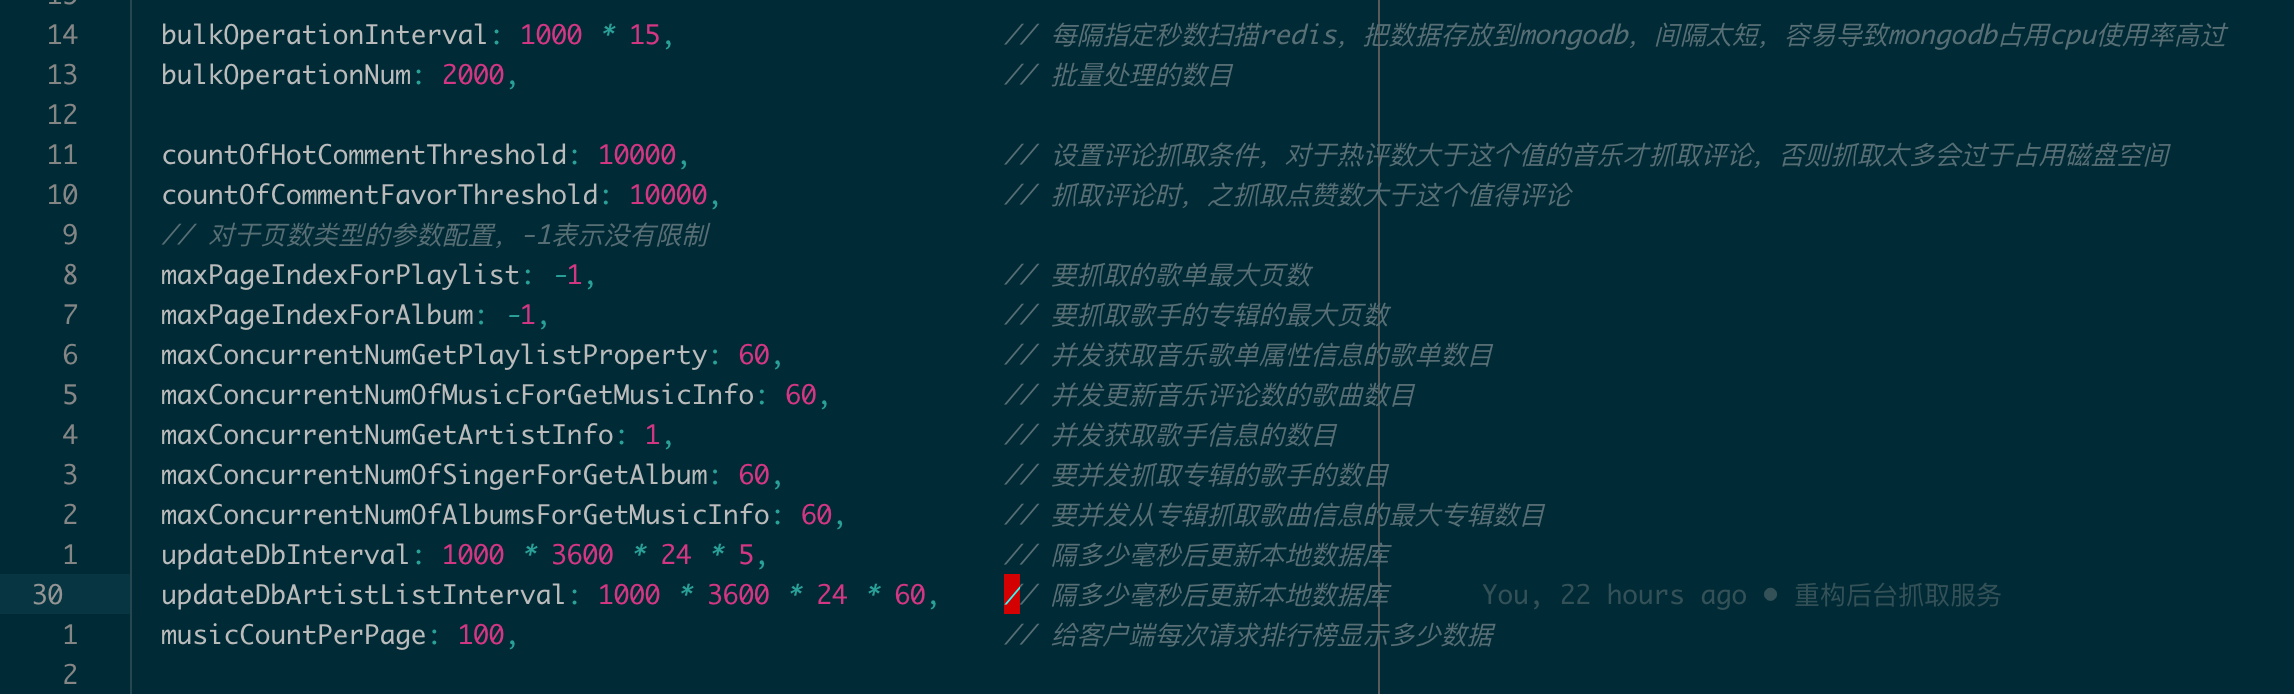
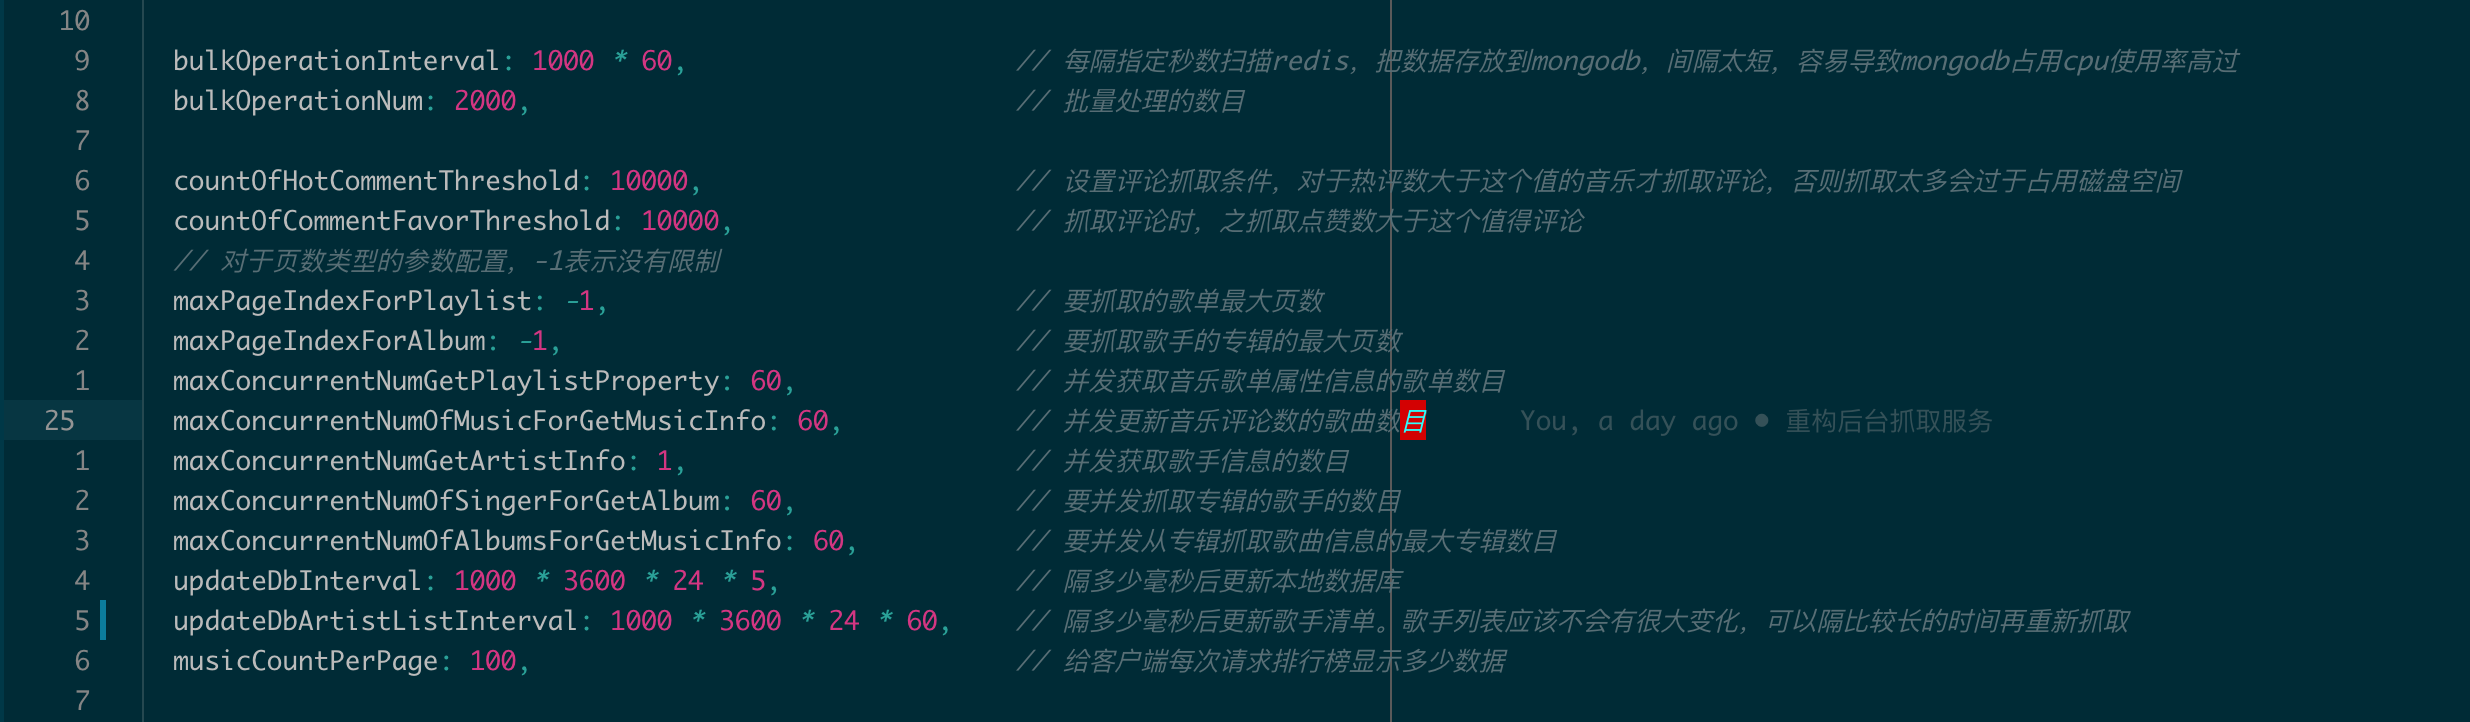
修改readme

diff --git a/server/src/config/index.js b/server/src/config/index.js
@@ -27,7 +27,7 @@ const config = {
   maxConcurrentNumOfSingerForGetAlbum: 60,              // 要并发抓取专辑的歌手的数目
   maxConcurrentNumOfAlbumsForGetMusicInfo: 60,          // 要并发从专辑抓取歌曲信息的最大专辑数目
   updateDbInterval: 1000 * 3600 * 24 * 5,               // 隔多少毫秒后更新本地数据库
-  updateDbArtistListInterval: 1000 * 3600 * 24 * 60,    // 隔多少毫秒后更新本地数据库
+  updateDbArtistListInterval: 1000 * 3600 * 24 * 60,    // 隔多少毫秒后更新歌手清单。歌手列表应该不会有很大变化，可以隔比较长的时间再重新抓取
   musicCountPerPage: 100,                               // 给客户端每次请求排行榜显示多少数据
 
   options: {

diff --git a/README.md b/README.md
@@ -35,10 +35,11 @@ Icon made by [Freepik](http://www.freepik.com/)
 
 ![ScreenShot3](./resource/ScreenShot3.png)
 
+同时，代码里```./server/src/config/index.js```有关于抓取时并发量的设置，默认并发数是60。
+
+![ScreenShot5](./resource/ScreenShot5.png)
+
 数据抓取下来以后暂时是放在redis里的，可以看出系统负载压力还可以接受。
 
 ![ScreenShot4](/Users/wupeng/work/myself/fairy/resource/ScreenShot4.png)
 
-同时，代码里```./server/src/config/index.js```有关于抓取时并发量的设置，默认并发数是60。
-
-![ScreenShot5](/Users/wupeng/work/myself/fairy/resource/ScreenShot5.png)
